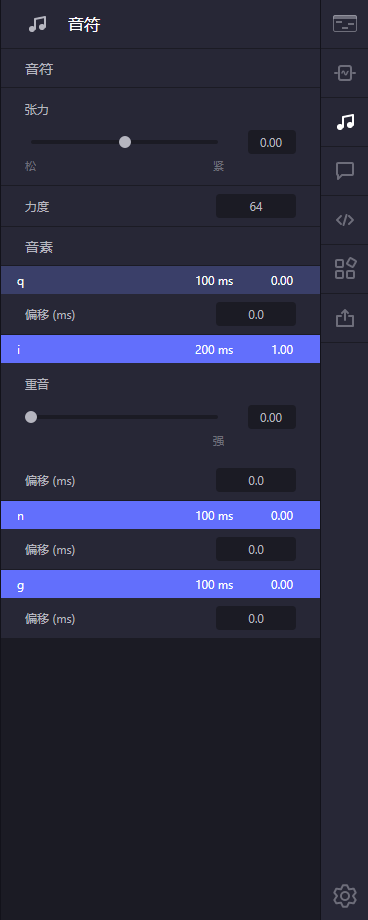
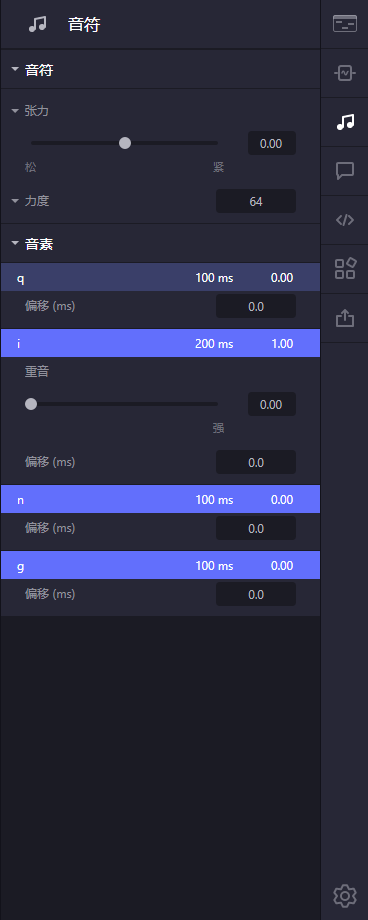
docs: 重生成手册插图（属性面板新层级与折叠），手册补字段收起与重置为默认的说明

diff --git a/docs/user-manual.zh-CN.md b/docs/user-manual.zh-CN.md
@@ -394,6 +394,10 @@ if ($setup.ExitCode -ne 0) {
 
 打开「音符」页签时显示选中音符的属性（引擎声明的音符级参数，如张力、力度），以及**音素**属性（逐 slot 显示：核音素与辅音音素的可编辑字段可以不同）。多选时字段会合并显示，改动扇出到所有选中对象；值不一致处显示「(多个)」。
 
+**收起字段**：分组标题和字段标题左侧都有小三角，点标题即可收起或展开。字段收起后只占一行，右侧显示当前值（滑条的数值、下拉的选中项、勾选框的开 / 关、列表的项数、标签的名字……），收起时不能修改。收起状态按声源 / 效果器和字段分别记住——同一个引擎的这个字段在别的片段、音符上也保持收起，重启后依旧。把不常调的字段常年收着，面板就短了。
+
+**恢复默认值**：在字段的标题或控件上右键，选「重置为默认」。对滑条、下拉、文本、列表、整个嵌套分组都适用，多选时对所有选中对象生效，可撤销。
+
 ### 11.2 导出页
 
 ![导出](images/manual/sidebar-export.png)
